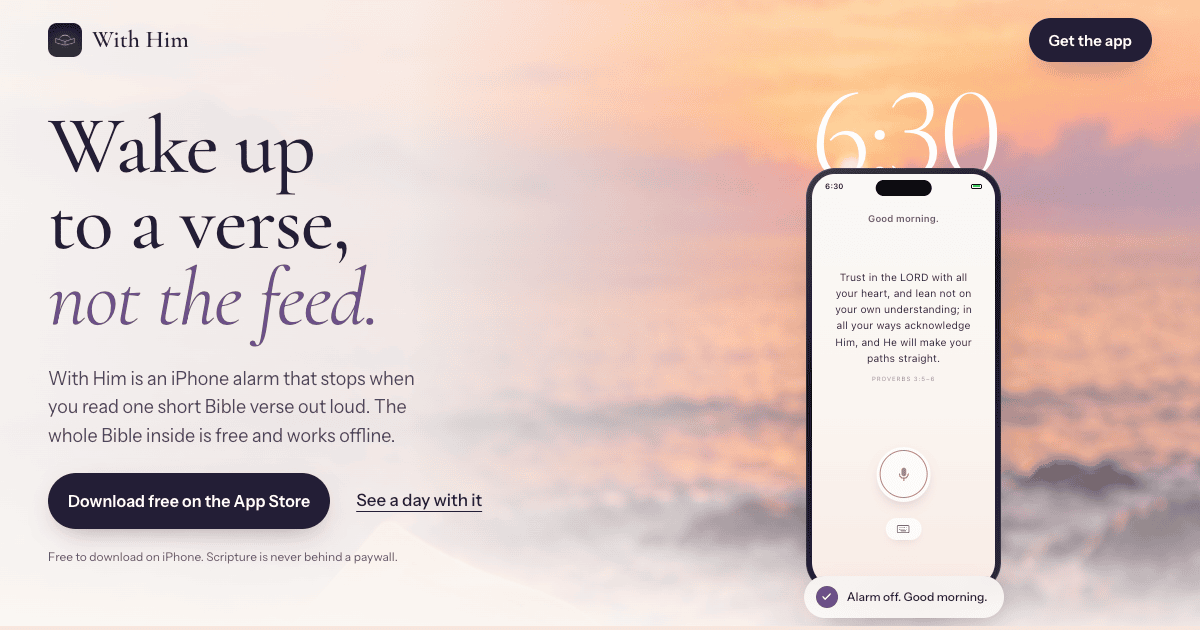
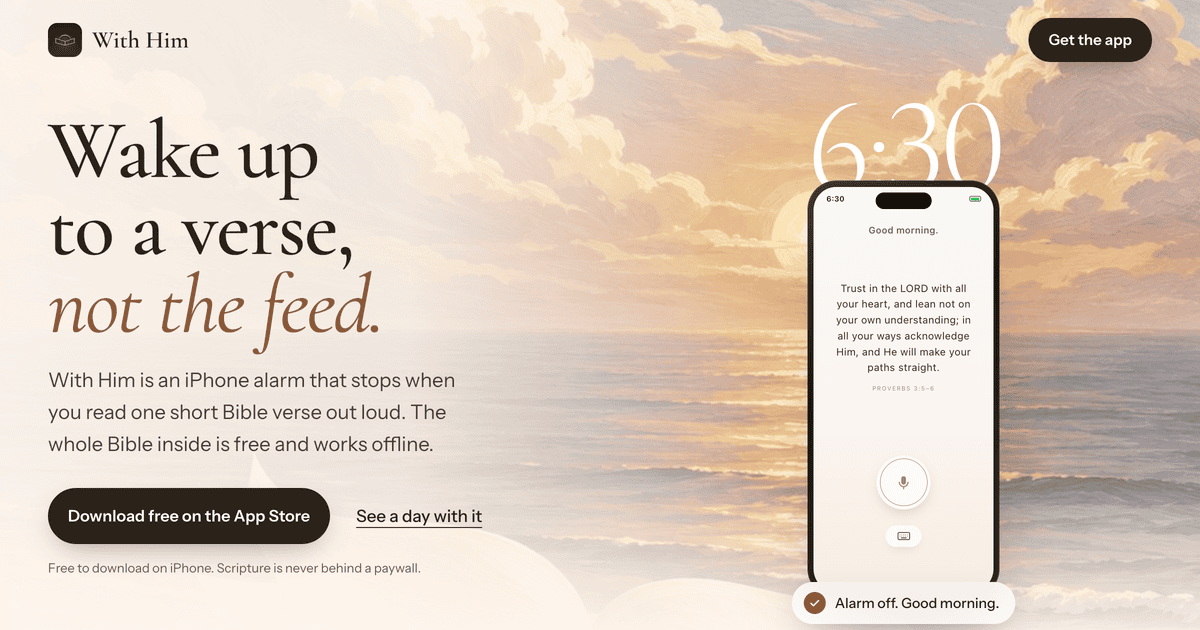
style: take the landing palette from the app's honey-dawn paintings

diff --git a/index.html b/index.html
@@ -3,7 +3,7 @@
 <head>
 <meta charset="utf-8">
 <meta name="viewport" content="width=device-width, initial-scale=1, viewport-fit=cover">
-<meta name="theme-color" content="#F5F5F5">
+<meta name="theme-color" content="#FDF6EE">
 <title>With Him — Wake up with Him</title>
 <meta name="description" content="Start the morning with a verse, pause a long scroll with Scripture, and read the whole Bible offline. With Him is available for iPhone on the App Store.">
 <link rel="canonical" href="https://kipackjeong.github.io/withhim-funnel/">
@@ -31,14 +31,17 @@
 <script defer src="assets/android-waitlist.js?v=20261113"></script>
 <style>
 :root {
-  --ink: #251f38;
-  --ink-soft: #5c5670;
-  --pearl: #fbf7f4;
-  --blush: #f6e6dd;
-  --peach: #f3c8a8;
-  --lavender: #e8e0f2;
-  --gold: #e3a84e;
-  --gold-deep: #9a6a22;
+  /* Honey-dawn: measured from the app's book and Home paintings (Lab, k-means). */
+  --ink: #2c2219;
+  --ink-mid: #4e3f33;
+  --ink-soft: #6e5b4b;
+  --pearl: #fdf6ee;
+  --blush: #f8e7d7;
+  --sand: #f3dfca;
+  --honey: #e6c392;
+  --clay: #8c5a3a;
+  --gold: #d1a15f;
+  --gold-deep: #956227;
   --night: #090909;
   --night-raise: #171614;
   --night-text: #f4f0e8;
@@ -52,7 +55,7 @@
     radial-gradient(circle at 14% 79%, #f4f0e84d 0 .8px, transparent 1.4px),
     radial-gradient(circle at 57% 91%, #f4f0e833 0 .7px, transparent 1.3px),
     radial-gradient(circle at 84% 73%, #f4f0e866 0 1px, transparent 1.6px);
-  --hair: rgba(37, 31, 56, 0.14);
+  --hair: rgba(44, 34, 25, 0.14);
   --serif: "Cormorant Garamond", "Iowan Old Style", Georgia, serif;
   --sans: "Instrument Sans", system-ui, -apple-system, "Helvetica Neue", sans-serif;
   --wrap: 1200px;
@@ -89,17 +92,17 @@ p { margin: 0; }
   transition: transform .2s ease, background-color .2s ease, box-shadow .2s ease;
 }
 .btn:active { transform: scale(.98); }
-.btn-ink { background: var(--ink); color: #fff; box-shadow: 0 10px 30px -12px rgba(37, 31, 56, .55); }
-.btn-ink:hover { background: #3a3155; }
+.btn-ink { background: var(--ink); color: #fff; box-shadow: 0 10px 30px -12px rgba(44, 34, 25, .55); }
+.btn-ink:hover { background: #44372c; }
 .btn-gold { background: var(--gold); color: var(--ink); }
-.btn-gold:hover { background: #ecb764; }
+.btn-gold:hover { background: #e0b475; }
 .btn svg { width: 18px; height: 18px; flex: none; }
 .text-link { font-weight: 500; text-decoration: underline; text-decoration-thickness: 1px; text-underline-offset: 5px; }
 .small-note { font-size: .875rem; color: var(--ink-soft); }
 
 /* ---------- Android waitlist ---------- */
 .btn-outline { background: transparent; color: var(--ink); box-shadow: inset 0 0 0 1.5px currentColor; cursor: pointer; }
-.btn-outline:hover { background: rgba(37, 31, 56, .07); }
+.btn-outline:hover { background: rgba(44, 34, 25, .07); }
 .android-optin { margin-top: 12px; }
 .hero-actions .android-optin { order: 3; flex-basis: 100%; margin-top: 0; }
 .closing .android-optin .btn { margin-top: 0; color: var(--night-text); }
@@ -114,7 +117,7 @@ p { margin: 0; }
 .waitlist-copy { margin-top: 14px; color: var(--ink-soft); }
 .waitlist-field { margin-top: 24px; display: grid; gap: 8px; }
 .waitlist-field label { font-weight: 500; font-size: .9375rem; }
-.waitlist-field input { min-height: 56px; padding: 0 18px; border-radius: 16px; border: 1.5px solid rgba(37, 31, 56, .55); background: #fff; color: var(--ink); font: 400 1.0625rem/1.2 var(--sans); width: 100%; }
+.waitlist-field input { min-height: 56px; padding: 0 18px; border-radius: 16px; border: 1.5px solid rgba(44, 34, 25, .55); background: #fff; color: var(--ink); font: 400 1.0625rem/1.2 var(--sans); width: 100%; }
 .waitlist-field input[aria-invalid="true"] { border-color: #a3261f; }
 .waitlist-hp { position: absolute; left: -10000px; width: 1px; height: 1px; overflow: hidden; }
 .waitlist-status { min-height: 1.5em; margin-top: 12px; font-size: .9375rem; color: #a3261f; }
@@ -130,8 +133,8 @@ p { margin: 0; }
   aspect-ratio: 1206 / 2622;
   border-radius: 15% / 7%;
   padding: 3.2%;
-  background: linear-gradient(145deg, #3b3846, #17151d 40%, #2a2732);
-  box-shadow: 0 40px 80px -30px rgba(22, 27, 52, .55), 0 0 0 1px rgba(255, 255, 255, .08) inset;
+  background: linear-gradient(145deg, #3a3530, #171411 40%, #2b2722);
+  box-shadow: 0 40px 80px -30px rgba(44, 34, 25, .55), 0 0 0 1px rgba(255, 255, 255, .08) inset;
 }
 .device > img, .device > .screen {
   width: 100%; height: 100%; object-fit: cover;
@@ -154,25 +157,25 @@ p { margin: 0; }
 .hero::before {
   content: ""; position: absolute; inset: 0; z-index: -1;
   background:
-    linear-gradient(90deg, rgba(251, 247, 244, .94) 0%, rgba(251, 247, 244, .82) 34%, rgba(251, 247, 244, .18) 62%, rgba(251, 247, 244, 0) 80%),
-    linear-gradient(0deg, rgba(251, 247, 244, .9) 0%, rgba(251, 247, 244, 0) 26%);
+    linear-gradient(90deg, rgba(253, 246, 238, .94) 0%, rgba(253, 246, 238, .82) 34%, rgba(253, 246, 238, .18) 62%, rgba(253, 246, 238, 0) 80%),
+    linear-gradient(0deg, rgba(253, 246, 238, .9) 0%, rgba(253, 246, 238, 0) 26%);
 }
 .hero-inner {
   display: grid; grid-template-columns: minmax(0, 1.08fr) minmax(0, .92fr); align-items: center; gap: 24px;
   padding-block: 128px 72px;
 }
 .hero h1 { font-size: clamp(3.3rem, 1.4rem + 5.4vw, 6.9rem); line-height: .93; letter-spacing: -0.02em; }
-.hero h1 em { display: block; color: #6b4f86; }
-.hero .lede { margin-top: 28px; color: #4a4460; }
+.hero h1 em { display: block; color: var(--clay); }
+.hero .lede { margin-top: 28px; color: var(--ink-mid); }
 .hero-actions { margin-top: 36px; display: flex; flex-wrap: wrap; align-items: center; gap: 14px 26px; }
-.hero .small-note { margin-top: 18px; color: #5a5470; }
+.hero .small-note { margin-top: 18px; color: var(--ink-soft); }
 
 .hero-stage { position: relative; display: flex; flex-direction: column; align-items: center; }
 .hero-clock {
   position: relative; z-index: 0;
   font: 300 clamp(8rem, 3rem + 8vw, 12rem)/.8 var(--serif);
   letter-spacing: -0.04em; color: #fff;
-  text-shadow: 0 6px 50px rgba(190, 96, 110, .35);
+  text-shadow: 0 6px 50px rgba(160, 98, 50, .35);
   margin-bottom: -.14em;
   white-space: nowrap; user-select: none; pointer-events: none;
   font-variant-numeric: lining-nums;
@@ -183,14 +186,14 @@ p { margin: 0; }
   display: inline-flex; align-items: center; gap: 9px; white-space: nowrap;
   padding: 10px 16px 10px 12px; border-radius: 999px;
   background: rgba(255, 255, 255, .82); backdrop-filter: blur(14px); -webkit-backdrop-filter: blur(14px);
-  box-shadow: 0 12px 30px -14px rgba(37, 31, 56, .45);
+  box-shadow: 0 12px 30px -14px rgba(44, 34, 25, .45);
   font: 500 .875rem/1 var(--sans); color: var(--ink);
 }
 .alarm-chip i { width: 22px; height: 22px; border-radius: 50%; display: grid; place-items: center; background: var(--gold); color: var(--ink); }
 .alarm-chip svg { width: 13px; height: 13px; }
 .alarm-chip .is-off { display: none; }
 .alarm-chip.done .is-on { display: none; }
-.alarm-chip.done .is-off { display: grid; background: #6b4f86; color: #fff; }
+.alarm-chip.done .is-off { display: grid; background: var(--clay); color: #fff; }
 .alarm-chip.ringing .is-on svg { animation: ring 1.1s ease-in-out infinite; transform-origin: 50% 20%; }
 @keyframes ring { 0%, 60%, 100% { rotate: 0deg; } 10% { rotate: 16deg; } 20% { rotate: -14deg; } 30% { rotate: 10deg; } 40% { rotate: -6deg; } }
 
@@ -230,8 +233,8 @@ p { margin: 0; }
 /* ---------- A day with Him ---------- */
 .day { position: relative; isolation: isolate; color: var(--ink); transition: color .6s ease; }
 .day-sky { position: absolute; inset: 0; z-index: -1; transition: opacity .8s ease; opacity: 0; }
-.day-sky.dawn { background: linear-gradient(180deg, #f7d7c2 0%, #f8e7dc 45%, var(--pearl) 100%); }
-.day-sky.noon { background: linear-gradient(180deg, #eee9e2 0%, #f5f1eb 55%, #fbf3ec 100%); }
+.day-sky.dawn { background: linear-gradient(180deg, #f8dbc0 0%, #faead9 45%, var(--pearl) 100%); }
+.day-sky.noon { background: linear-gradient(180deg, #eee9e2 0%, #f5f1eb 55%, var(--pearl) 100%); }
 .day-sky.night { background: var(--night-sky), linear-gradient(180deg, var(--night-raise), var(--night) 70%); }
 .day[data-moment="dawn"] .day-sky.dawn,
 .day[data-moment="noon"] .day-sky.noon,
@@ -289,15 +292,15 @@ p { margin: 0; }
 .plain-list li span { color: var(--ink-soft); font-size: .9375rem; white-space: nowrap; }
 
 /* ---------- Grace ---------- */
-.grace { background: var(--lavender); padding-block: clamp(96px, 11vw, 150px); overflow: hidden; }
+.grace { background: var(--sand); padding-block: clamp(96px, 11vw, 150px); overflow: hidden; }
 .grace-grid { display: grid; grid-template-columns: minmax(0, 1fr) minmax(0, 1fr); gap: 64px; align-items: start; }
 .grace-art { width: min(300px, 70%); mix-blend-mode: multiply; margin-top: 48px; opacity: .78; }
-.grace .lede { margin-top: 24px; color: #4f4864; }
+.grace .lede { margin-top: 24px; color: var(--ink-mid); }
 .grace-items { list-style: none; margin: 0; padding: 0; }
-.grace-items li { padding: 30px 0; border-top: 1px solid rgba(37, 31, 56, .18); }
-.grace-items li:last-child { border-bottom: 1px solid rgba(37, 31, 56, .18); }
+.grace-items li { padding: 30px 0; border-top: 1px solid rgba(44, 34, 25, .18); }
+.grace-items li:last-child { border-bottom: 1px solid rgba(44, 34, 25, .18); }
 .grace-items h3 { font-size: clamp(1.6rem, 1.3rem + .8vw, 2rem); }
-.grace-items p { margin-top: 8px; color: #4f4864; max-width: 30em; }
+.grace-items p { margin-top: 8px; color: var(--ink-mid); max-width: 30em; }
 
 /* ---------- Pricing ---------- */
 .pricing { padding-block: clamp(96px, 11vw, 150px); }
@@ -306,7 +309,7 @@ p { margin: 0; }
 .plan { border-radius: 28px; padding: clamp(28px, 3.4vw, 44px); display: flex; flex-direction: column; }
 .plan-free { border: 1px solid var(--hair); background: #fff; }
 .plan-plus { background: var(--night-sky), var(--night); color: var(--night-text); position: relative; overflow: hidden; }
-.plan-plus::before { content: ""; position: absolute; inset: auto -20% -60% 20%; height: 120%; background: radial-gradient(closest-side, rgba(227, 168, 78, .28), transparent); pointer-events: none; }
+.plan-plus::before { content: ""; position: absolute; inset: auto -20% -60% 20%; height: 120%; background: radial-gradient(closest-side, rgba(209, 161, 95, .28), transparent); pointer-events: none; }
 .plan h3 { font-size: 2rem; }
 .price { margin-top: 18px; font: 500 clamp(3.4rem, 2.6rem + 2.4vw, 4.6rem)/1 var(--serif); letter-spacing: -0.02em; }
 .price small { font: 400 1rem/1 var(--sans); letter-spacing: 0; opacity: .7; margin-left: 6px; }
@@ -338,7 +341,7 @@ p { margin: 0; }
 .closing-photo { aspect-ratio: 4 / 5; border-radius: 28px; overflow: hidden; }
 .closing-photo img { width: 100%; height: 100%; object-fit: cover; object-position: 50% 82%; }
 .closing h2 { font-size: clamp(3rem, 1.6rem + 4.6vw, 6rem); line-height: .95; }
-.closing h2 em { display: block; color: var(--peach); }
+.closing h2 em { display: block; color: var(--honey); }
 .closing p { margin-top: 24px; color: var(--night-soft); max-width: 26em; font-size: 1.1875rem; }
 .closing .btn { margin-top: 36px; }
 .closing .small-note { color: var(--night-soft); margin-top: 16px; font-size: .875rem; }
@@ -355,8 +358,8 @@ p { margin: 0; }
 .sticky-cta {
   position: fixed; z-index: 20; left: 12px; right: 12px; bottom: max(12px, env(safe-area-inset-bottom));
   display: none; align-items: center; gap: 12px; padding: 10px 10px 10px 14px; border-radius: 22px;
-  background: rgba(251, 247, 244, .86); backdrop-filter: blur(18px) saturate(1.4); -webkit-backdrop-filter: blur(18px) saturate(1.4);
-  box-shadow: 0 16px 40px -18px rgba(22, 27, 52, .55), 0 0 0 1px rgba(37, 31, 56, .08);
+  background: rgba(253, 246, 238, .86); backdrop-filter: blur(18px) saturate(1.4); -webkit-backdrop-filter: blur(18px) saturate(1.4);
+  box-shadow: 0 16px 40px -18px rgba(44, 34, 25, .55), 0 0 0 1px rgba(44, 34, 25, .08);
   transform: translateY(140%); transition: transform .35s ease;
 }
 .sticky-cta.show { transform: none; }
@@ -371,7 +374,7 @@ p { margin: 0; }
   .header-cta { display: none; }
   .hero { min-height: 0; align-items: start; }
   .hero-bg { background-position: 60% 22%; }
-  .hero::before { background: linear-gradient(180deg, rgba(251, 247, 244, .9) 0%, rgba(251, 247, 244, .72) 46%, rgba(251, 247, 244, .1) 72%, rgba(251, 247, 244, .85) 100%); }
+  .hero::before { background: linear-gradient(180deg, rgba(253, 246, 238, .9) 0%, rgba(253, 246, 238, .72) 46%, rgba(253, 246, 238, .1) 72%, rgba(253, 246, 238, .85) 100%); }
   .hero-inner { grid-template-columns: 1fr; padding-block: 96px 64px; gap: 8px; }
   .hero h1 { font-size: clamp(3rem, 2rem + 6vw, 4.4rem); }
   .hero .lede { margin-top: 20px; }
@@ -425,9 +428,9 @@ h1, h2, h3, .lede { text-wrap: balance; }
 .unfold { position: relative; background: var(--blush); }
 .unfold-stage { min-height: 100svh; display: flex; flex-direction: column; align-items: center; justify-content: center; gap: 32px; padding: 40px var(--gutter) 56px; perspective: 1100px; }
 .unfold h2 { max-width: 900px; text-align: center; font-size: clamp(2.3rem, 4.5vw, 4.4rem); line-height: 1.03; }
-.unfold h2 em { color: #6b4f86; }
+.unfold h2 em { color: var(--clay); }
 .unfold-phone { width: clamp(228px, 20vw, 288px); transform-origin: 50% 55%; }
-.unfold-phone .device { box-shadow: 0 50px 90px -30px rgba(37, 31, 56, .3); }
+.unfold-phone .device { box-shadow: 0 50px 90px -30px rgba(44, 34, 25, .3); }
 .motion-ready .unfold { height: 190svh; }
 .motion-ready .unfold-stage { position: sticky; top: 0; height: 100svh; }
 .motion-ready .unfold-phone { transform: rotateX(25deg) scale(1.05) translateY(24px); will-change: transform; }
@@ -456,7 +459,7 @@ h1, h2, h3, .lede { text-wrap: balance; }
   .motion-ready .honest { height: 220svh; }
   .day-grid { display: block; padding-bottom: 36px; }
   .day-stage { display: grid; position: sticky; top: 0; height: 53svh; z-index: 1; padding-top: 12px; pointer-events: none; }
-  .day { --stage-color: #f8e2d3; }
+  .day { --stage-color: #f9e2cb; }
   .day[data-moment="noon"] { --stage-color: #eee9e2; }
   .day[data-moment="night"] { --stage-color: var(--night); }
   .day-stage::before { content: ""; position: absolute; inset: 0 -20px -16px; z-index: -1; background: var(--stage-color); transition: background-color .8s ease; -webkit-mask-image: linear-gradient(#000 calc(100% - 20px), transparent); mask-image: linear-gradient(#000 calc(100% - 20px), transparent); }
@@ -493,7 +496,7 @@ h1, h2, h3, .lede { text-wrap: balance; }
 html { scroll-padding-block: 20px 110px; }
 .sr-only { position: absolute; width: 1px; height: 1px; padding: 0; margin: -1px; overflow: hidden; clip-path: inset(50%); white-space: nowrap; border: 0; }
 .header-actions { display: flex; align-items: center; gap: 12px; }
-.demo-toggle { min-height: 44px; padding: 8px 12px; border: 1px solid var(--hair); border-radius: 999px; background: rgba(251, 247, 244, .88); color: var(--ink); font: 500 .8125rem/1.2 var(--sans); cursor: pointer; }
+.demo-toggle { min-height: 44px; padding: 8px 12px; border: 1px solid var(--hair); border-radius: 999px; background: rgba(253, 246, 238, .88); color: var(--ink); font: 500 .8125rem/1.2 var(--sans); cursor: pointer; }
 .demo-toggle:hover { background: var(--pearl); }
 .demo-toggle:disabled { cursor: default; }
 .site-footer a { display: inline-flex; align-items: center; min-height: 44px; }

diff --git a/README.md b/README.md
@@ -26,9 +26,10 @@ The published product also offers optional sermon processing; consult the curren
 
 The assets added for Unfold are copied unchanged from the approved prototype, not generated during the production migration:
 
-- `assets/art/HomeVerseFriday.jpg` and `OnboardingJesus.png` supply the hero backdrop and grace illustration. The Reels phone stands on the page with no backdrop.
+- `assets/art/HomeVerseFriday.jpg` and `OnboardingJesus.png` supply the hero backdrop and grace illustration. The hero painting is the app's honey-dawn Friday painting (`Packages/WithHimKit/Sources/AppFeatures/Resources/HomeVerseFriday.jpg`), re-encoded without embedded metadata. The Reels phone stands on the page with no backdrop.
 - `assets/photos/ending.jpg` is the prototype's illustrative closing image, not a product screenshot or customer testimonial. The scroll-reveal statement uses a plain dark background without a person photo.
-- Dark sections use a near-black night sky (`#090909`), sparse static CSS stars, and warm off-white text rather than navy or blue. The daytime neutral is warm stone; the dawn palette and page choreography are unchanged.
+- Dark sections use a near-black night sky (`#090909`), sparse static CSS stars, and warm off-white text rather than navy or blue.
+- The daytime palette is the app art's honey-dawn family, measured from the 66 book paintings and 7 Home paintings (Lab k-means; 76% of colored pixels sit at hue 60–90°, 17% at 30–60°, no violet). Tokens: umber ink `#2c2219` / `#4e3f33` / `#6e5b4b`, cream `#fdf6ee`, blush `#f8e7d7`, sand `#f3dfca` (the grace section), honey `#e6c392` (the closing accent on night), clay `#8c5a3a` (display italics), and the app's own accents, gold `#d1a15f` and deep gold `#956227`. Do not reintroduce purple, lavender, or pink tints. The `.screen` alarm replica keeps the app's neutral UI colors.
 - `assets/books/BookArt01.jpg` through `BookArt66.jpg` are the 66 book paintings, in the prototype's gallery order. They are the app's honey-dawn set (canonical exports in `marketing/illustrations/20261121-readthrough-honey-dawn/app`, 1024×1536), resized to 400×600 and re-encoded as progressive JPEGs without embedded metadata. When the app's art set changes, re-export from that folder under the same names. Every figure and caption is present in `index.html`, not generated by JavaScript.
 - `assets/live/{alarm,readthrough,reels,bible}.mp4` and their matching `.jpg` posters are the four actual app recordings from `admin/landing-prototype/assets/live/`. No unused `home` recording is copied. Focus Shield remains the real `assets/screenshots/focus-gate.png` still: there is no Shield recording or `shield.mp4` reference.
 - The hero keeps the approved illustrative HTML alarm demo; it is not a recording, microphone input, or a functioning alarm.
@@ -61,7 +62,7 @@ Open <http://127.0.0.1:8766/>. The landing page owns its inline styles and `asse
 
 ## Updating the pages
 
-Keep the approved Unfold copy, Cormorant Garamond / Instrument Sans typography, pearl/blush/lavender/night palette, illustrative hero, and scroll choreography aligned with the approved prototype. Adapt production contracts rather than replacing them: preserve the canonical/social URLs, App Store destination, CTA analytics attributes, and legacy anchors. Keep current plan terms aligned across the landing, download, support, and legal pages. Bump the `assets/unfold.js?v=` value after changing its behavior; change the supporting pages' `shared.css?v=` and `legal.css?v=` values only when those styles actually change.
+Keep the approved Unfold copy, Cormorant Garamond / Instrument Sans typography, honey-dawn/night palette, illustrative hero, and scroll choreography aligned with the approved prototype. Adapt production contracts rather than replacing them: preserve the canonical/social URLs, App Store destination, CTA analytics attributes, and legacy anchors. Keep current plan terms aligned across the landing, download, support, and legal pages. Bump the `assets/unfold.js?v=` value after changing its behavior; change the supporting pages' `shared.css?v=` and `legal.css?v=` values only when those styles actually change.
 
 Before release, review desktop (1440px), tablet/split-screen (1024px and 768px), mobile (390px), and narrow (320px) views; keyboard focus, gallery controls, FAQ disclosure, and the sticky CTA; the static no-JS and blocked-vendor states; initial and live-change reduced motion; video lazy loading, active-scene selection, offscreen/document-hidden pausing, and poster fallback; every legacy anchor/App Store link; and the preserved `dataLayer` payloads. A short landscape viewport intentionally uses unpinned unfold/text sections so content does not depend on fitting a full-height phone and headline.
 
